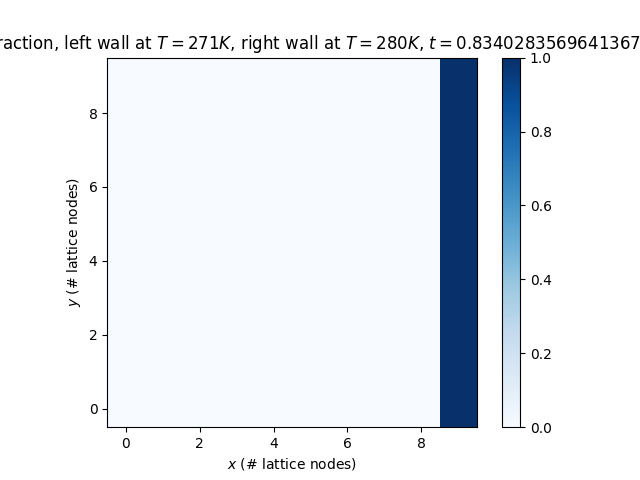
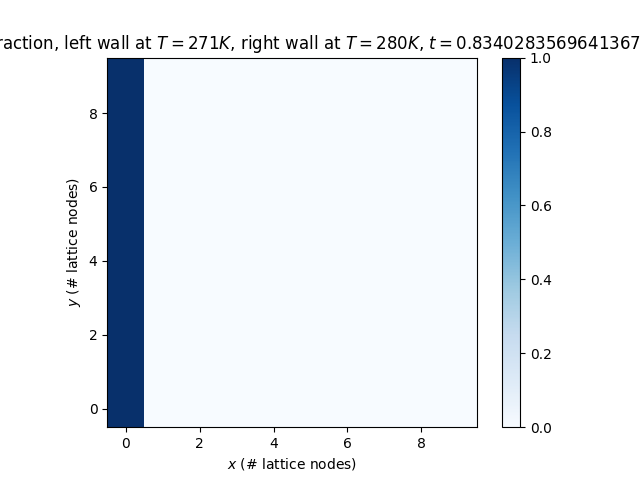
Commit 1 9maa

Changed region(s): [[0.1562, 0.125, 0.25, 0.9062], [0.6875, 0.125, 0.75, 0.9062]]

diff --git a/hsource_sq_cav.py b/hsource_sq_cav.py
@@ -15,7 +15,7 @@ pd.set_option("display.max_rows", None, "display.max_columns", None)
 L = 0.01            # m
 H = L            # m
 g = 9.81            # m/s^2
-Time = 20           # s
+Time = 50           # s
 nu = 1e-6           # m^2/s
 alpha = 1.44e-7     # m^2/s
 rho0 = 1e3          # kg/m^3
@@ -342,10 +342,9 @@ def decompose_f_i(f_i):
     return f_plus, f_minus
 
 
-def temperature(T, alpha, Lat, c_p, beta, ux, uy, T_dim_C, T_dim_H, f_l_old_tstep):
+def temperature(T, alpha, Lat, c_p, beta, ux, uy, t, T_dim_H, f_l_old_tstep):
     T_new = np.zeros((Nx, Ny))
-    h = np.zeros((Nx, Ny))
-    f_l = f_l_old_tstep
+    f_l = f_l_old_tstep.copy()
 
     def liq_fraction(T_new, f_l):
         h = c_p * (T_new / beta + T0) + Lat * f_l
@@ -362,6 +361,7 @@ def temperature(T, alpha, Lat, c_p, beta, ux, uy, T_dim_C, T_dim_H, f_l_old_tste
     for j in range(1, Ny-1):
         for i in range(1, Nx-1):
             f_l_old_iter = -10
+
             while True:
                 T_new[i, j] = (1 - 6 * alpha) * T[i, j] + (2 * alpha - ux[i, j]) * T[i+1, j] \
                               + (2 * alpha + ux[i, j]) * T[i-1, j] + (2 * alpha - uy[i, j]) * T[i, j+1] \
@@ -371,23 +371,40 @@ def temperature(T, alpha, Lat, c_p, beta, ux, uy, T_dim_C, T_dim_H, f_l_old_tste
 
                 f_l[i, j] = liq_fraction(T_new[i, j], f_l[i, j])
 
+                if t > 1500: #in [288, 289]:
+                    if i == 1 and j in [1, 2]:
+                        x = beta * Lat / c_p * (f_l[i, j] - f_l_old_tstep[i, j])
+                        print("(i, j) = (", i, j, "),", "T =", T_new[i, j] / beta + T0)
+                        print("(i, j) = (", i, j, "),", "T =", f_l[i, j])
+                        # print("(i, j) = (", i, j, "),", "T =", x)
+
                 if np.abs(f_l[i, j] - f_l_old_iter) < 1e-3:
                     break
 
-                f_l_old_iter = f_l[i, j]
+                f_l_old_iter = f_l[i, j].copy()
 
     # T BCs
     #### Moeten ook een heat sink krijgen
     for j in range(1, Ny-1):
         f_l_old_iter = -10
         while True:
-            T_new[0, j] = 8 / 15 * T_dim_H[j] + 2 / 3 * T_new[1, j] - 1 / 5 * T_new[2, j] - beta * Lat / c_p * (f_l[0, j] - f_l_old_tstep[0, j])
+            T_new[0, j] = 8/15 * T_dim_H[j] + 2/3 * T_new[1, j] - 1/5 * T_new[2, j] - beta * Lat / c_p * (f_l[0, j] - f_l_old_tstep[0, j])
             f_l[0, j] = liq_fraction(T_new[0, j], f_l[0, j])
 
             if np.abs(f_l[0, j] - f_l_old_iter) < 1e-3:
                 break
 
             f_l_old_iter = f_l[0, j]
+
+        f_l_old_iter = -10
+        while True:
+            T_new[-1, j] = 3/2 * T_new[-2, j] - 1/2 * T_new[-3, j] - beta * Lat / c_p * (f_l[-1, j] - f_l_old_tstep[-1, j])
+            f_l[-1, j] = liq_fraction(T_new[-1, j], f_l[-1, j])
+
+            if np.abs(f_l[-1, j] - f_l_old_iter) < 1e-3:
+                break
+
+            f_l_old_iter = f_l[-1, j]
 
         # f_l_old_iter = -10
         # while True:
@@ -398,9 +415,6 @@ def temperature(T, alpha, Lat, c_p, beta, ux, uy, T_dim_C, T_dim_H, f_l_old_tste
         #         break
         #
         #     f_l_old_iter = f_l[-1, j]
-
-    # T_new[0, 1:Ny-1] = 8 / 15 * T_dim_C[1:Ny - 1] + 2 / 3 * T_new[1, 1:Ny - 1] - 1 / 5 * T_new[2, 1:Ny - 1]
-    # T_new[-1, 1:Ny-1] = 8 / 15 * T_dim_H[1:Ny - 1] + 2 / 3 * T_new[-2, 1:Ny - 1] - 1 / 5 * T_new[-3, 1:Ny - 1]
 
     # Adiabatic BCs
     for i in range(0, Nx):
@@ -424,9 +438,6 @@ def temperature(T, alpha, Lat, c_p, beta, ux, uy, T_dim_C, T_dim_H, f_l_old_tste
 
             f_l_old_iter = f_l[i, -1]
 
-    # T_new[:, 0] = 3/2 * T_new[:, 1] - 1/2 * T_new[:, 2]
-    # T_new[:, -1] = 3/2 * T_new[:, -2] - 1/2 * T_new[:, -3]
-
     return T_new, f_l
 
 
@@ -449,9 +460,9 @@ for t in range(Nt):
     uy = f_l * (np.sum(f_minus[:, :] * c_i[:, 1], axis=2) / rho_sim + F_buoy[:, :, 1] / 2)
 
     # Temperature
-    T_dim, f_l = temperature(T_dim, alpha_sim, Lat, c_p, beta, ux, uy, T_dim_C, T_dim_H, f_l)
-    easy_view(1, T_dim / beta + T0)
-    easy_view(2, f_l)
+    T_dim, f_l = temperature(T_dim, alpha_sim, Lat, c_p, beta, ux, uy, t, T_dim_H, f_l)
+    # easy_view(t, T_dim / beta + T0)
+    # easy_view(t, f_l)
 
     # New equilibrium distribution
     f_eq_plus, f_eq_minus, Si = f_equilibrium(w_i, rho_sim, ux, uy, c_i, q, c_s, F_buoy)
@@ -463,7 +474,7 @@ for t in range(Nt):
     f_i = streaming(Nx, Ny, f_i, f_star)
     f_plus, f_minus = decompose_f_i(f_i)
 
-    if t % 50 == 0:
+    if t % 300 == 0:
         # Heatmaps
         plt.figure(2)
         plt.clf()
@@ -472,7 +483,7 @@ for t in range(Nt):
         plt.ylabel('$y$ (# lattice nodes)')
         plt.title(f'Liquid fraction, left wall at $T={T_C}K$, right wall at $T={T_H}K$, $t={t/Nt*Time}s$')
         plt.colorbar()
-        plt.savefig(f"Figures/hsource_sq_cav/1/heatmap_fl_time{Time}_{t/Nt*Time}_test.png")
+        plt.savefig(f"Figures/hsource_sq_cav/2/heatmap_fl_time{Time}_{t/Nt*Time}_test.png")
 
 stop = time.time()
 print(stop-start)
@@ -499,11 +510,11 @@ T = T_dim / beta + T0
 # plt.show()
 
 ## Vector plot
-# plt.figure(np.int(t/200)+1)
-x = np.linspace(dx, L-dx, len(ux))
-y = np.linspace(dx, H-dx, len(uy))
+# # plt.figure(np.int(t/200)+1)
+# x = np.linspace(dx, L-dx, len(ux))
+# y = np.linspace(dx, H-dx, len(uy))
 # fig = ff.create_streamline(x, y, ux.T, uy.T)
-# fig.show()
+# # fig.show()
 # plt.xlabel('$x$ (# lattice nodes)')
 # plt.ylabel('$y$ (# lattice nodes)')
 # plt.title('Velocity profile in pipe with hot plate for $x < L/2$ and cold plate for $x > L/2$. \n $p>0$')
@@ -517,7 +528,7 @@ plt.xlabel('$x$ (# lattice nodes)')
 plt.ylabel('$y$ (# lattice nodes)')
 plt.title(f'$u$ in pipe with left wall at $T={T_H}K$ and right wall at $T={T_C}K$')
 # plt.legend('Velocity vector')
-plt.savefig(f"Figures/hsource_sq_cav/arrowplot_time{Time}_test.png")
+plt.savefig(f"Figures/hsource_sq_cav/2/arrowplot_time{Time}_test.png")
 
 # Heatmaps
 plt.figure(1)
@@ -527,7 +538,7 @@ plt.xlabel('$x$ (# lattice nodes)')
 plt.ylabel('$y$ (# lattice nodes)')
 plt.title(f'Liquid fraction, left wall at $T={T_H}K$, right wall at $T={T_C}K$, $t={Nt/t}$')
 plt.colorbar()
-plt.savefig(f"Figures/hsource_sq_cav/heatmap_fl_time{Time}_test_highhighres.png")
+plt.savefig(f"Figures/hsource_sq_cav/2/heatmap_fl_time{Time}_test_highhighres.png")
 # Heatmaps
 plt.figure(2)
 plt.clf()
@@ -536,7 +547,7 @@ plt.xlabel('$x$ (# lattice nodes)')
 plt.ylabel('$y$ (# lattice nodes)')
 plt.title(f'$u_x$ in cavity with left wall at $T={T_H}K$ and right wall at $T={T_C}K$')
 plt.colorbar()
-plt.savefig(f"Figures/hsource_sq_cav/heatmap_ux_time{Time}_test.png")
+plt.savefig(f"Figures/hsource_sq_cav/2/heatmap_ux_time{Time}_test.png")
 
 plt.figure(3)
 plt.clf()
@@ -545,7 +556,7 @@ plt.xlabel('$x$ (# lattice nodes)')
 plt.ylabel('$y$ (# lattice nodes)')
 plt.title(f'$u_y$ in cavity with left wall at $T={T_H}K$ and right wall at $T={T_C}K$')
 plt.colorbar()
-plt.savefig(f"Figures/hsource_sq_cav/heatmap_uy_time{Time}_test.png")
+plt.savefig(f"Figures/hsource_sq_cav/2/heatmap_uy_time{Time}_test.png")
 
 plt.figure(5)
 plt.clf()
@@ -554,7 +565,7 @@ plt.xlabel('$x$ (# lattice nodes)')
 plt.ylabel('$y$ (# lattice nodes)')
 plt.title(f'$\\rho$ in cavity with left wall at $T={T_H}K$ and right wall at $T={T_C}K$')
 plt.colorbar()
-plt.savefig(f"Figures/hsource_sq_cav/heatmap_rho_time{Time}_test.png")
+plt.savefig(f"Figures/hsource_sq_cav/2/heatmap_rho_time{Time}_test.png")
 
 ## Temperature heatmap
 plt.figure(4)
@@ -564,7 +575,7 @@ plt.xlabel('$x$ (# lattice nodes)')
 plt.ylabel('$y$ (# lattice nodes)')
 plt.title('$T$ in cavity with left wall at $T=298K$ and right wall at $T=288K$. No flow.')
 plt.colorbar()
-plt.savefig(f"Figures/hsource_sq_cav/heatmap_T_time{Time}_test.png")
+plt.savefig(f"Figures/hsource_sq_cav/2/heatmap_T_time{Time}_test.png")
 
 # ## Temperature line plot
 # plt.figure(0)
@@ -572,4 +583,4 @@ plt.savefig(f"Figures/hsource_sq_cav/heatmap_T_time{Time}_test.png")
 # plt.xlabel('$x$ (m)')
 # plt.ylabel('$T$ (K)')
 # plt.title('$T$ in cavity with left wall at $T=298K$ and right wall at $T=288K$. 1D cross section.')
-# plt.savefig(f"Figures/hsource_sq_cav/lineplot_T_adv_newBCs_time{Time}" + str() + ".png")
+# plt.savefig(f"Figures/hsource_sq_cav/2/lineplot_T_adv_newBCs_time{Time}" + str() + ".png")
